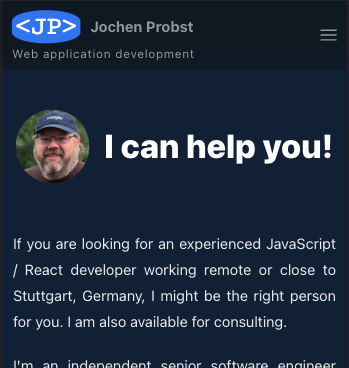
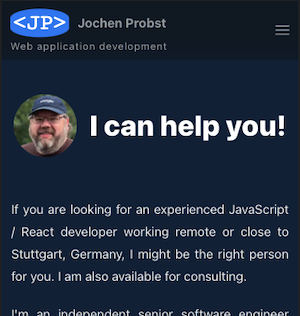
fix: layout and text tweaks;

diff --git a/src/pages/index.tsx b/src/pages/index.tsx
@@ -48,7 +48,6 @@ export default function Home() {
       </div>
       <Typography className="p-3">
         <h1>{t("experiences")}</h1>
-        <p>{t.rich("experiences_description")}</p>
         <h2>{t("programming_languages")}</h2>
         <p>
           {experiencesProgrammingLanguages.map(
@@ -89,9 +88,21 @@ export default function Home() {
       <Typography className="p-3">
         <h1>{t("companies_i_worked_for")}</h1>
         {companiesIWorkedFor.map(
-          ({ name, href, [`href_${locale}`]: href_lang }) => (
+          ({
+            name,
+            href,
+            [`href_${locale}`]: href_lang,
+            role,
+            [`role_${locale}`]: role_lang,
+            duration,
+          }) => (
             <div key={name} className="p-1">
-              <A href={href_lang ?? href}>{name}</A>
+              <A href={String(href_lang ?? href)}>{name}</A>
+              <br />
+              <span className="text-slate-11">
+                {role_lang ?? role}&nbsp;(
+                {t("year", { count: duration, plus: "" })})
+              </span>
             </div>
           )
         )}
@@ -128,21 +139,38 @@ const experiencesFrontendFrameworks = [
   { from: 2009, to: 2014, technology: "Zend Framework" },
 ];
 
-const companiesIWorkedFor: Array<Record<string, string>> = [
+const companiesIWorkedFor: Array<Record<string, string | number>> = [
   {
     name: "diconium GmbH",
     href: "https://diconium.com/",
+    role: "Consultant IT, Senior Software Engineer, Team Lead Frontend",
+    duration: 19,
   },
-  { name: "Kodak alaris", href: "https://www.alarisworld.com" },
-  { name: "PBS Network", href: "https://www.pbsnetwork.eu" },
+  {
+    name: "Kodak alaris",
+    href: "https://www.alarisworld.com",
+    role_en: "Contact person consulting frontend development",
+    duration: 11,
+  },
+  {
+    name: "PBS Network",
+    href: "https://www.pbsnetwork.eu",
+    role: "Senior Software Engineer Frontend",
+    duration: 2,
+  },
   {
     name: "DaimlerChrysler AG",
     href: "https://de.wikipedia.org/wiki/Mercedes-Benz_Group",
     href_en: "https://en.wikipedia.org/wiki/Mercedes-Benz_Group",
+    role: "Diplomarbeit",
+    role_en: "Theses",
+    duration: -1, //=> 6 months
   },
   {
     name: "Neckarwerke Stuttgart",
     href: "https://de.wikipedia.org/wiki/Neckarwerke_Stuttgart",
+    role: "Web Developer Intranet",
+    duration: 1,
   },
 ];
 
@@ -273,7 +301,7 @@ function Experience({ from, to, technology }: ExperienceProps) {
   const t = useTranslations();
   return (
     <>
-      <span className={`${to && "text-gray-400"}`}>
+      <span>
         {to && to == from ? (
           <>
             {t("some_weeks")}&nbsp;{technology}&nbsp;({from})

diff --git a/src/pages/projects/index.tsx b/src/pages/projects/index.tsx
@@ -33,7 +33,7 @@ export default function Projects({ markdowns }: { markdowns: string[] }) {
         </a>
         <div className="bg-[url('/img/projects/rushsoft-de-visual.png')] bg-no-repeat bg-right-top border border-primary-6 rounded-2xl drop-shadow-md overflow-hidden">
           <BoxImageRight>
-            <div className="h-[80px] sm:w-[300px] sm:h-[340px] sm:float-right" />
+            <div className="h-[80px] sm:w-[290px] sm:h-[340px] sm:float-right" />
             <h2 className="!mt-2">{t("development_of_this_site")}</h2>
             <MarkdownIntl>{markdowns[2]}</MarkdownIntl>
           </BoxImageRight>
@@ -81,7 +81,7 @@ function MarkdownIntl({ children, ...props }: ComponentProps<typeof Markdown>) {
 
 function BoxImageRight({ children }: { children: React.ReactNode }) {
   return (
-    <div className="h-full bg-gradient-to-b from-transparent to-primary-2 to-20% -to-b sm:bg-gradient-to-bl sm:from-transparent  sm:to-primary-2 sm:to-40% overflow-hidden">
+    <div className="h-full bg-gradient-to-b from-transparent to-primary-2 to-20% -to-b sm:bg-gradient-to-bl sm:from-transparent sm:to-primary-2 sm:to-35% overflow-hidden">
       <div className="w-full h-full text-left float-right p-2 sm:p-4">
         {children}
       </div>

diff --git a/src/i18n/locales/de/projects/2023-rushsoft-de.md b/src/i18n/locales/de/projects/2023-rushsoft-de.md
@@ -1,19 +1,19 @@
 ### Static Site Generation (SSG) mit Next.js 13 und neuem "app-router"?
 
-Da ich die letzten Jahre Single Page Applications (SPA) entwickelte, war ich daran interessiert eine statische webseite (SEO-freundlich) - eben diese hier - mit [Next.js](https://nextjs.org/) zu erstellen.
+Da ich die letzten Jahre Single Page Applications (SPA) entwickelt habe, war ich daran interessiert eine statische webseite (SEO-freundlich) - eben diese hier - mit [Next.js](https://nextjs.org/) zu erstellen.
 Ich definierte folgende technischen Anforderungen:
 
 - Statische Seitengenerierung (SSG)
 - Verwendung von Next.js mit neuem App-Router
 - Internationalisierung (i18n) Unterstützung (2 Sprachen)
-- Hosting auf [fly.io](https://fly.io), da es containerbasierte Bereitstellungen und Nullkosten beim Start eines Projekts unterstützt.
+- Hosting auf [fly.io](https://fly.io), da es containerbasierte Bereitstellungen und Nullkosten beim Start eines Projekts unterstützt
 - Styling mit [tailwindcss](https://tailwindcss.com) und [radix-ui/colors](https://www.radix-ui.com/colors)
 
 #### Ergebnis
 
-- Internationalisierung mit SSG mit Next.js App-Router war nicht fertig: Umstellung auf "pages-router" erforderlich.
+- Internationalisierung mit SSG mit Next.js App-Router war nicht fertig: Umstellung auf "pages-router" erforderlich
 - Das Styling mit radix-ui/colors funktioniert gut: Keine extra "dark:" vorangestellten Regeln nötig (Spezialfälle ausgenommen)
-- Hosting auf fly.io toll, keine Probleme, sehr gute Dokumentation, einfach zu bedienen, keine Kosten für kleine Projekte (Juli 2023).
+- Hosting auf fly.io toll, keine Probleme, sehr gute Dokumentation, einfach zu bedienen, keine Kosten für kleine Projekte (Juli 2023)
 - Sehr gute Seiten Qualität nach lighthouse, siehe [blog](/img/blog/web-app-quality-assurance)
 
 Das Project is öffentlich auf github (siehe Link, oben rechts in der Navi)

diff --git a/src/i18n/locales/de/projects/2023-shopping-list-pwa.md b/src/i18n/locales/de/projects/2023-shopping-list-pwa.md
@@ -14,7 +14,7 @@ Ich habe mich für den folgenden Stack interessiert:
 #### Ergebnis (Developer Experience)
 
 - Mongoose ist nicht die beste Wahl, wenn TypeScript verwendet wird. Besser scheint [Prisma](https://www.prisma.io).
-- Das Hosting bei Vercel hat sehr gut funktioniert, gute Dokumentation und einfach zu bedienen. Für den Start von Projekten eine sehr gute Wahl. Das einzige was ich kritisch sehe: Container-basierte Bereitstellungen wird nicht unterstützt. So ist immer ein Build für das Deployment auf das Produktionssystem erforderlich, was Zeit kostet. Neben anderen wichtigen Eigenschaften sind container basierte Deployments deutlich schneller.
+- Das Hosting bei Vercel hat sehr gut funktioniert, gute Dokumentation und einfach zu bedienen. Für den Start von Projekten eine sehr gute Wahl. Das einzige was ich kritisch sehe: Container-basierte Bereitstellungen werden nicht unterstützt. So ist immer ein Build für das Deployment auf das Produktionssystem erforderlich, was Zeit kostet. Neben anderen wichtigen Eigenschaften sind container basierte Deployments deutlich schneller.
 
 Der Quelltext ist auf github (Link im footer der App).
 Hier der Link zur App: [shopping-list-app](https://shopping-list-eta.vercel.app/)  

diff --git a/src/i18n/locales/de/projects/2021-containerize-and-update.md b/src/i18n/locales/de/projects/2021-containerize-and-update.md
@@ -2,7 +2,7 @@
 
 - **Von** PHP 5.4 mit TYPO3 Flow 3, klassische Server-Installation, RDMS-basierte Session
 - **Zu** PHP 7.4 mit Neos Flow 6 und Alpine Linux basierten Docker-Container, Redis basierte Session
-- **Das Gute:** Das PHP-Core-Update verlief relativ reibungslos mit einer überschaubaren Menge an erforderlichen Code-Aktualisierungen.
-- **Das Schlechte:** Die Template Engine (NeosFlow) war der zeitaufwändigste Teil des Update-Prozesses.
+- **Das Gute:** Das PHP-Core-Update verlief relativ reibungslos mit einer überschaubaren Menge an erforderlichen Code-Aktualisierungen
+- **Das Schlechte:** Die Template Engine (NeosFlow) war der zeitaufwändigste Teil des Update-Prozesses
 
 Ich habe das Update innerhalb des geplanten Zeitrahmens durchgeführt und es hat Spaß gemacht, das System im Rahmen einer Schulung an ein zweites Entwicklerteam zu übergeben. Später war das Team in der Lage, das System zu pflegen und z. B. Versions-Updates selbst durchzuführen.

diff --git a/src/i18n/locales/de/projects/2022-shop-relaunch.md b/src/i18n/locales/de/projects/2022-shop-relaunch.md
@@ -9,7 +9,6 @@
 - **Meine Rolle:** Lead Dev
 
 Neben UI-Implementierung, Codereviews und der Verwaltung des Entwicklungsprozesses,
-habe ich das Projekt von Grund auf inklusive CI/CD mit Gitlab eingerichtet
-(später Github) und Docker. In diesem Projekt setzte ich das erste mal
-[RTK Query](https://redux-toolkit.js.org/rtk-query/overview) ein.
-Die allgemeine Erfahrung damit war sehr gut. Wenn in einem Projekt Redux verwendet wird, und viele API Endpunkte integriert werden müssen, würde ich RTKQuery wieder verwenden!
+habe ich das Projekt von Grund auf inklusive CI/CD mit Gitlab (später Github) und Docker eingerichtet.
+In diesem Projekt setzte ich das erste mal [RTK Query](https://redux-toolkit.js.org/rtk-query/overview) ein.
+Die allgemeine Erfahrung damit war sehr gut. Wenn in einem Projekt Redux verwendet wird und viele API Endpunkte integriert werden müssen, würde ich RTKQuery wieder verwenden!
